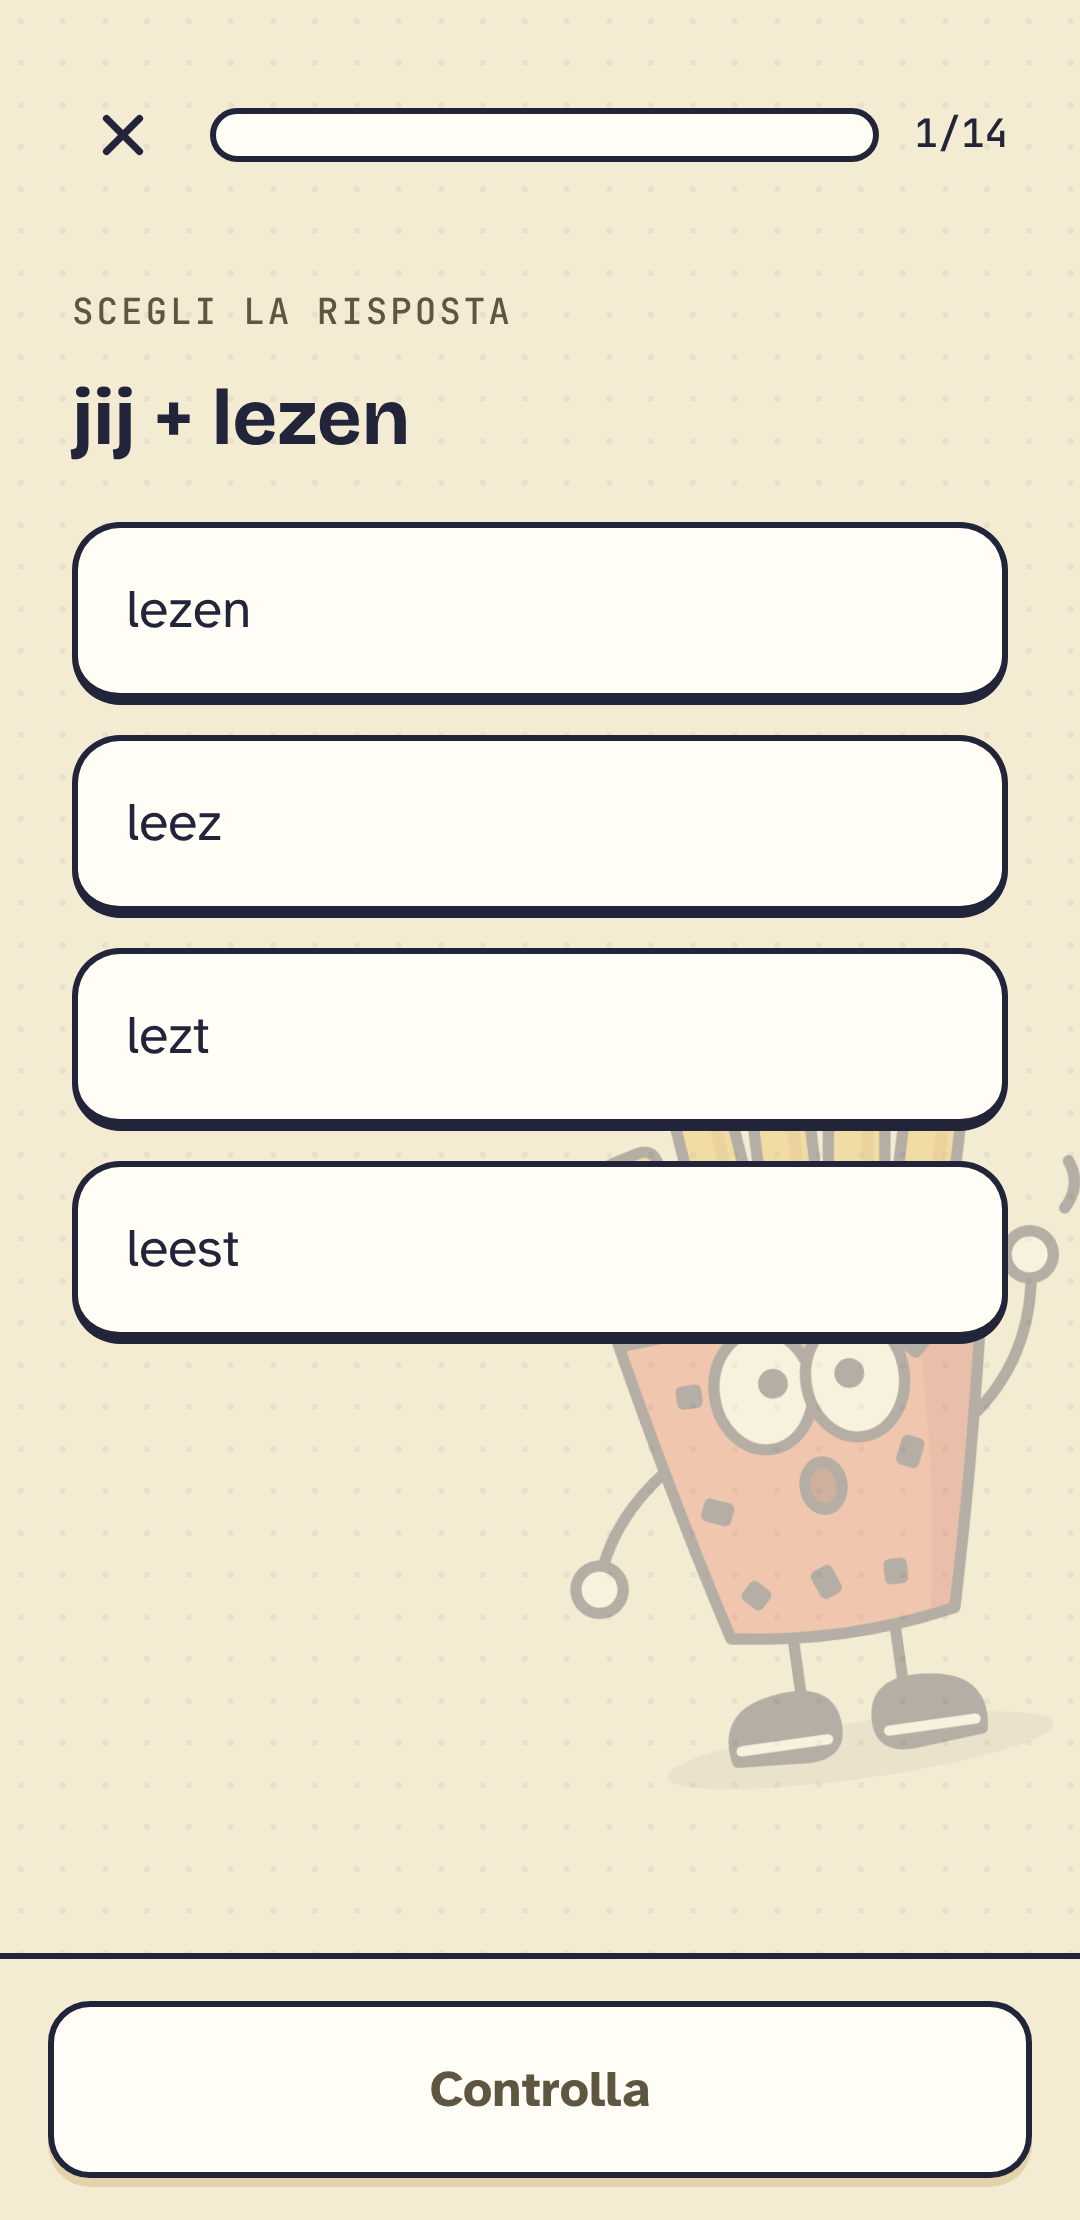
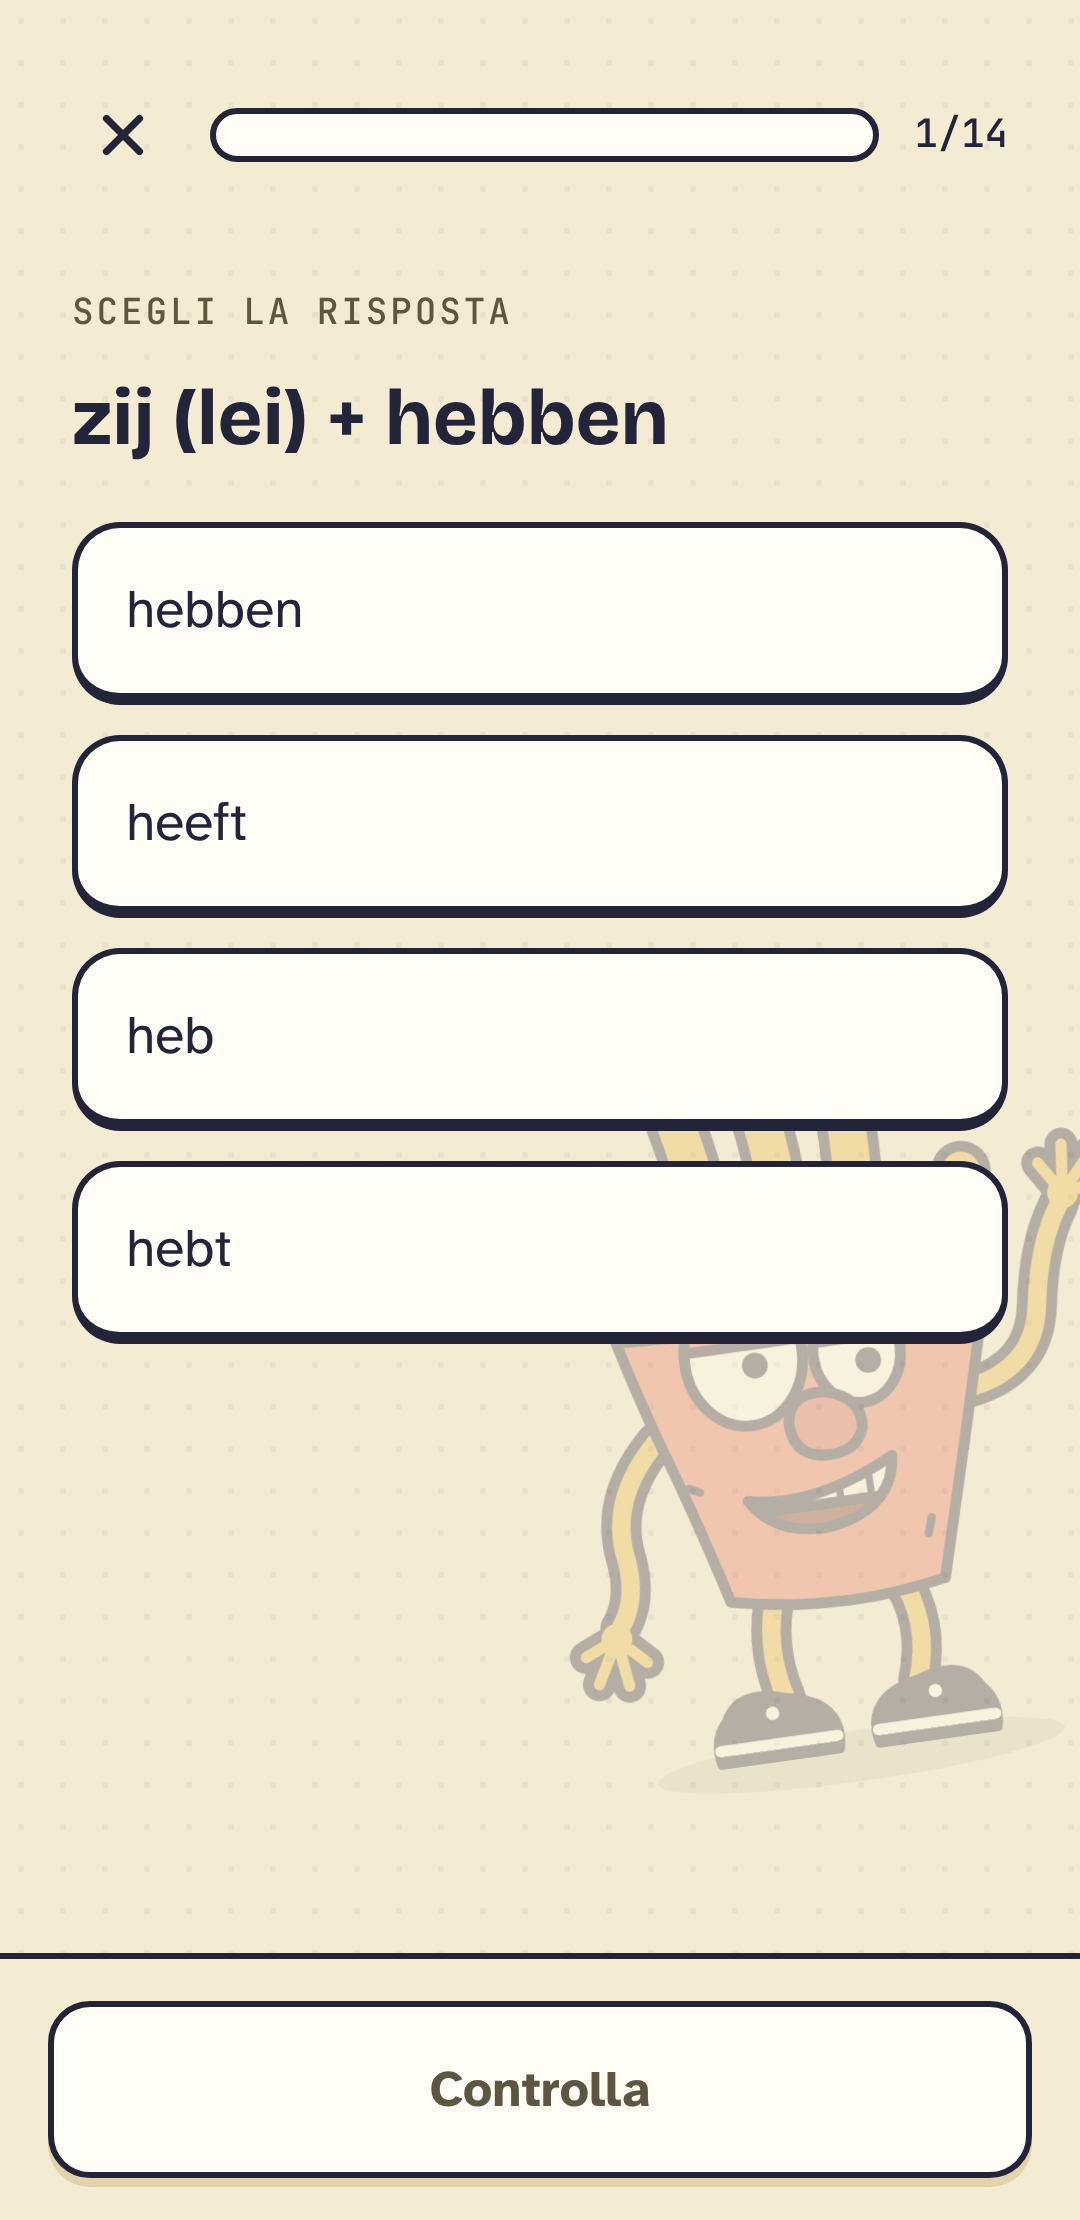
Patatino ridisegnato da cartone strambo anni '90
Occhi diversi con palpebre pesanti, naso a patata, denti, patatine a ciuffo,
braccia e gambe a spaghetto con le dita, colori piatti senza ombre.
Icone e screenshot rigenerati, service worker patatino-v13.

Claude-Session: https://claude.ai/code/session_01ECBMUquqsHNzCigmgssG95

diff --git a/index.html b/index.html
@@ -3822,73 +3822,84 @@ const ICON = {
 /* ---------- Patatino, la mascotte (disegno originale) ---------- */
 let mid = 0;
 function patatino(mood, size){
-  // stile cartone anni '90: contorno blu notte sottile, colori smorzati, occhioni sporgenti, scarpone e ombra morbida a terra
+  // cartone "strambo" anni '90: linee sottili un po' storte, colori piatti, occhi diversi, denti, braccia a spaghetto con le dita
   const id = "pc" + (++mid);
-  const K = "#22243A", C = "#E8705F", CS = "#CF5A4B", Y = "#EBB83F", YS = "#D49C25", W = "#FFFDF6", SW = 2.2;
+  const K = "#22243A", C = "#E8705F", CN = "#D65B4A", Y = "#EBB83F", W = "#FFFDF6", M = "#7C2A2A", SW = 2.1;
   const ln = `stroke="${K}" stroke-width="${SW}" stroke-linecap="round" stroke-linejoin="round"`;
-  // patatine leggermente storte, come disegnate a mano
-  const fries = [[40,30,40,-14],[53,20,46,-6],[66,15,50,1],[79,20,44,8],[91,30,36,15]].map(([x,y,h,r]) =>
-    `<g transform="rotate(${r} ${x+5.5} ${y+h/2})"><path d="M${x} ${y+3} Q${x} ${y} ${x+3} ${y} H${x+8} Q${x+11} ${y} ${x+11} ${y+3} V${y+h} H${x} Z" fill="${Y}" ${ln}/><path d="M${x+7.6} ${y+4} V${y+h-2}" stroke="${YS}" stroke-width="2.4" stroke-linecap="round"/></g>`).join("");
-  // braccine sottili con manine bianche
-  const hand = (x, y) => `<circle cx="${x}" cy="${y}" r="4.6" fill="${W}" ${ln}/>`;
-  const A = {
-    wave:  [["M40 92 Q28 100 24 112", 24, 113], ["M100 90 Q114 80 116 62", 116, 60]],
-    happy: [["M40 92 Q28 100 26 114", 26, 115], ["M100 92 Q112 100 114 114", 114, 115]],
-    cheer: [["M40 90 Q26 80 22 62", 22, 60], ["M100 90 Q114 80 118 62", 118, 60]],
-    sad:   [["M41 94 Q36 108 38 122", 38, 124], ["M99 94 Q104 108 102 122", 102, 124]]
+  // tubi (patatine, braccia, gambe, dita): tratto blu notte largo sotto, colore sopra
+  const tube = (paths, w, col) => paths.map(d => `<path d="${d}" fill="none" stroke="${K}" stroke-width="${w + SW*2}" stroke-linecap="round" stroke-linejoin="round"/>`).join("") +
+    paths.map(d => `<path d="${d}" fill="none" stroke="${col}" stroke-width="${w}" stroke-linecap="round" stroke-linejoin="round"/>`).join("");
+  // mano: palmo + quattro dita a ventaglio nella direzione a (gradi)
+  const fingers = (x, y, a) => [-60, -22, 14, 52].map((o, i) => {
+    const r = (a + o) * Math.PI / 180, l = [7.5, 9.5, 9.5, 7][i];
+    return `M${x} ${y} L${(x + Math.cos(r)*l).toFixed(1)} ${(y + Math.sin(r)*l).toFixed(1)}`;
+  });
+  const ARMS = {
+    wave:  [["M39 86 Q28 96 30 108 Q31 116 27 121", 26, 123, 105], ["M101 84 Q114 82 116 70 Q118 58 123 51", 124, 49, -62]],
+    happy: [["M39 88 Q26 94 24 108", 23, 111, 100], ["M101 88 Q114 94 116 108", 117, 111, 80]],
+    cheer: [["M39 84 Q26 78 24 64 Q22 54 17 48", 16, 46, -118], ["M101 84 Q114 78 116 64 Q118 54 123 48", 124, 46, -62]],
+    sad:   [["M40 90 Q35 106 38 120 Q38 127 36 131", 36, 133, 95], ["M100 90 Q105 106 102 120 Q102 127 104 131", 104, 133, 85]]
   }[mood] || [];
-  const arms = A.map(([d, x, y]) => `<path d="${d}" fill="none" ${ln}/>` + hand(x, y)).join("");
-  // occhioni sporgenti che si toccano, pupille piccole
-  const eye = (x, y, px, py, lid) => {
-    const cid = id + "e" + x;
-    return `<clipPath id="${cid}"><ellipse cx="${x}" cy="${y}" rx="9.6" ry="11.6"/></clipPath>
-      <ellipse cx="${x}" cy="${y}" rx="9.6" ry="11.6" fill="${W}"/>
-      <circle cx="${x+px}" cy="${y+py}" r="2.9" fill="${K}"/>
-      ${lid ? `<g clip-path="url(#${cid})"><rect x="${x-10}" y="${y-12}" width="20" height="${22*lid}" fill="${C}"/><path d="M${x-10} ${y-11+22*lid} H${x+10}" ${ln}/></g>` : ""}
-      <ellipse cx="${x}" cy="${y}" rx="9.6" ry="11.6" fill="none" ${ln}/>`;
+  const arms = tube(ARMS.flatMap(([, x, y, a]) => fingers(x, y, a)), 2.2, Y) + tube(ARMS.map(([d]) => d), 3.6, Y) +
+    ARMS.map(([, x, y]) => `<circle cx="${x}" cy="${y}" r="3" fill="${Y}"/>`).join("");
+  const legs = tube(mood === "sad" ? ["M58 118 Q60 128 63 139", "M82 118 Q80 128 77 139"] : ["M58 118 Q54 128 57 139", "M82 118 Q87 128 83 139"], 3.6, Y);
+  const shoe = (x, s) => `<path d="M${x} 139 Q${x + s*9} 136 ${x + s*12} 142 Q${x + s*15} 145 ${x + s*14} 150 L${x - s*9} 150 Q${x - s*11} 141 ${x} 139 Z" fill="${K}" ${ln}/>
+    <path d="M${x - s*9} 147.5 H${x + s*14}" stroke="${W}" stroke-width="2.2" stroke-linecap="round"/><circle cx="${x + s*3}" cy="141.5" r="1.3" fill="${W}"/>`;
+  // patatine come ciuffi di capelli, una con la punta piegata
+  const droop = mood === "sad" ? 6 : 0;
+  const fries = tube([`M44 64 Q40 48 ${34 - droop} ${36 + droop}`, `M56 62 Q55 42 ${51 - droop/2} 24`, "M68 60 Q71 38 66 18 Q65 11 72 9",
+    `M80 62 Q85 44 ${84 + droop/2} 27`, `M92 64 Q99 52 ${105 + droop} ${42 + droop}`], 7.4, Y);
+  // occhi diversi tra loro: palpebra (lid) da 0 a 1, pupilla spostata di (px, py)
+  const eye = (k, x, y, rx, ry, px, py, lid) => {
+    const cid = id + k;
+    return `<clipPath id="${cid}"><ellipse cx="${x}" cy="${y}" rx="${rx}" ry="${ry}"/></clipPath>
+      <ellipse cx="${x}" cy="${y}" rx="${rx}" ry="${ry}" fill="${W}"/>
+      <circle cx="${x + px}" cy="${y + py}" r="2.5" fill="${K}"/>
+      ${lid ? `<g clip-path="url(#${cid})"><rect x="${x - rx - 1}" y="${y - ry - 1}" width="${rx*2 + 2}" height="${ry*2*lid + 1}" fill="${C}"/><path d="M${x - rx - 1} ${y - ry + ry*2*lid} H${x + rx + 1}" ${ln}/></g>` : ""}
+      <ellipse cx="${x}" cy="${y}" rx="${rx}" ry="${ry}" fill="none" ${ln}/>`;
   };
-  let face;
-  if(mood === "cheer"){
-    face = `<path d="M53 80 Q61 70 69 80 M71 80 Q79 70 87 80" fill="none" ${ln}/>
-      <path d="M61 92 Q70 108 79 92 Z" fill="#7C2A2A" ${ln}/><path d="M65 99 Q70 96 75 99" stroke="${C}" stroke-width="2.4" fill="none" stroke-linecap="round"/>`;
-  } else if(mood === "happy"){
-    face = eye(61, 79, 1.5, 1, 0) + eye(79, 79, -1, 1, 0) + `<path d="M63 97 Q70 104 77 97" fill="none" ${ln}/>`;
-  } else if(mood === "sad"){
-    face = eye(61, 80, 0, 4, .38) + eye(79, 80, 0, 4, .38) +
-      `<path d="M52 66 L60 70 M88 66 L80 70" ${ln}/><path d="M64 101 Q70 96 76 101" fill="none" ${ln}/>
-      <path d="M90 88 Q94 95 91 98 Q86 98 87 93 Z" fill="#BFE0F0" ${ln}/>`;
-  } else {
-    // stupito-simpatico: boccuccia aperta come nel saluto
-    face = eye(61, 79, 2, -1, 0) + eye(79, 79, -1, -1, 0) +
-      `<path d="M56 64 Q61 61 66 64 M74 64 Q79 61 84 64" fill="none" ${ln}/><ellipse cx="70" cy="99" rx="3.6" ry="4.6" fill="#7C2A2A" ${ln}/>`;
-  }
+  const E = {
+    wave:  [[2, 2, .42], [2, 2, .36], "M73 61 Q80 55 88 60"],
+    happy: [[2, 1, 0], [-1, 1, 0], "M47 58 Q56 53 64 57 M73 60 Q80 56 87 60"],
+    cheer: [[0, -6, 0], [0, -4.5, 0], "M46 55 Q56 49 65 54 M72 57 Q80 51 88 56"],
+    sad:   [[0, 5, .5], [0, 4, .5], "M47 61 Q55 57 64 55 M74 58 Q82 58 88 63"]
+  }[mood] || [[0, 0, 0], [0, 0, 0], ""];
+  const eyes = eye("a", 58, 72, 11.5, 13.5, ...E[0]) + eye("b", 80, 74, 8.5, 10, ...E[1]) + `<path d="${E[2]}" fill="none" ${ln}/>`;
+  const nose = `<path d="M65 86 Q66 80 73 81 Q80 83 79 89 Q77 94 70 93 Q65 92 65 86 Z" fill="${CN}" ${ln}/>`;
+  // bocca: forma riempita scura, fila di denti in alto, lingua per l'esultanza
+  const mouth = (d, teeth, tongue) => `<clipPath id="${id}m"><path d="${d}"/></clipPath><path d="${d}" fill="${M}"/>
+    <g clip-path="url(#${id}m)"><rect x="40" y="80" width="60" height="${teeth}" fill="${W}"/><path d="M40 ${80 + teeth} H100" ${ln}/>
+    ${[61, 67, 73, 79].map(x => `<path d="M${x} 80 V${80 + teeth}" stroke="${K}" stroke-width="1.4"/>`).join("")}
+    ${tongue ? `<ellipse cx="70" cy="118" rx="9" ry="6" fill="#F29A8E" ${ln}/>` : ""}</g><path d="${d}" fill="none" ${ln}/>`;
+  const mouths = {
+    wave:  mouth("M55 100 Q68 103 84 95 Q83 105 71 107 Q60 108 55 100 Z", 22.5, false),
+    happy: mouth("M52 98 Q68 103 88 93 Q87 109 71 112 Q56 112 52 98 Z", 21.5, false),
+    cheer: mouth("M55 98 Q70 101 85 95 Q86 115 71 119 Q56 117 55 98 Z", 21, true),
+    sad:   `<path d="M66 102.5 h4 v4.6 h-4 Z M70 102.5 h4 v4.2 h-4 Z" fill="${W}" ${ln}/><path d="M55 106 Q61 100 67 103 Q73 99 85 104" fill="none" ${ln}/>`
+  };
   const spark = (x, y, s) => `<path d="M${x} ${y-s} Q${x} ${y} ${x+s} ${y} Q${x} ${y} ${x} ${y+s} Q${x} ${y} ${x-s} ${y} Q${x} ${y} ${x} ${y-s} Z" fill="${Y}" stroke="${K}" stroke-width="1.6" stroke-linejoin="round"/>`;
-  const extras = mood === "cheer" ? spark(14, 44, 6) + spark(128, 40, 6) + spark(26, 24, 3.5) :
-                 mood === "wave" ? `<path d="M124 52 q4 -4 2 -9 M130 60 q5 -2 5 -7" fill="none" ${ln}/>` :
-                 mood === "happy" ? spark(124, 46, 4.5) : "";
-  // cono a camicia hawaiana: corallo con quadratini blu notte, fascia col Belgio in tinte smorzate
-  const CONE = "M33 60 Q70 56 107 60 Q100 96 92 126 Q70 130 48 126 Q40 96 33 60 Z";
-  const dots = [[44,76],[47,98],[54,115],[69,114],[84,115],[91,93],[95,74]].map(([x,y],i) =>
-    `<rect x="${x}" y="${y}" width="${i%2?6:5}" height="4.6" rx="1.2" fill="${K}" transform="rotate(${i*23} ${x} ${y})"/>`).join("");
+  const extras = mood === "cheer" ? spark(10, 30, 6) + spark(132, 26, 6) + spark(24, 14, 3.5) + spark(118, 10, 3.5) :
+                 mood === "wave" ? `<path d="M128 42 q5 -4 3 -10 M134 52 q6 -2 6 -8" fill="none" ${ln}/>` :
+                 mood === "happy" ? spark(124, 70, 4.5) :
+                 mood === "sad" ? `<path d="M92 84 Q97 92 93 96 Q87 96 89 90 Z" fill="#BFE0F0" ${ln}/>` : "";
+  // cono un po' storto, colore piatto, fascia col Belgio in tinte smorzate
+  const CONE = "M32 58 Q52 53 72 56 Q92 53 108 59 Q103 78 99 92 Q95 106 91 120 Q70 124 49 119 Q44 100 40 88 Q35 72 32 58 Z";
   return `<svg class="patatino" viewBox="0 0 140 160" width="${size}" height="${Math.round(size*160/140)}" role="img" aria-label="Patatino, la mascotte">
     <defs><clipPath id="${id}"><path d="${CONE}"/></clipPath></defs>
-    <ellipse class="pt-sh" cx="70" cy="151" rx="38" ry="5.5" fill="rgba(34,36,58,.14)"/>
+    <ellipse class="pt-sh" cx="70" cy="152" rx="40" ry="5" fill="rgba(34,36,58,.14)"/>
     ${extras}
-    <path d="M60 126 V140 M80 126 V140" ${ln}/>
-    <path d="M46 150 Q44 140 56 139 Q66 138 66 146 Q66 151 60 151 Z" fill="${K}" ${ln}/><path d="M47 148 H64" stroke="${W}" stroke-width="2" stroke-linecap="round"/>
-    <path d="M94 150 Q96 140 84 139 Q74 138 74 146 Q74 151 80 151 Z" fill="${K}" ${ln}/><path d="M93 148 H76" stroke="${W}" stroke-width="2" stroke-linecap="round"/>
+    ${legs}${shoe(57, -1)}${shoe(83, 1)}
     ${arms}
     ${fries}
-    <path d="M58 52 Q62 43 70 48 Q78 43 82 52 Q78 58 70 57 Q62 58 58 52 Z" fill="${W}" ${ln}/>
+    <path d="M57 53 Q60 44 68 48 Q74 41 81 47 Q86 52 80 56 Q70 59 60 57 Q55 56 57 53 Z" fill="${W}" ${ln}/>
     <path d="${CONE}" fill="${C}"/>
     <g clip-path="url(#${id})">
-      <path d="M92 50 Q102 52 112 58 L98 132 H86 Q94 96 92 50 Z" fill="${CS}"/>
-      ${dots}
-      <rect x="20" y="58" width="38" height="9" fill="${K}"/><rect x="58" y="58" width="25" height="9" fill="${Y}"/><rect x="83" y="58" width="40" height="9" fill="#C4473A"/>
-      <path d="M30 67 Q70 64 112 67" fill="none" ${ln}/>
+      <rect x="20" y="50" width="38" height="16" fill="${K}"/><rect x="58" y="50" width="25" height="16" fill="${Y}"/><rect x="83" y="50" width="40" height="16" fill="#C4473A"/>
+      <path d="M26 65 Q50 68 70 65 Q92 62 114 66" fill="none" ${ln}/>
+      <path d="M46 112 l2 2 M90 108 l-1 3 M44 96 l2 1" stroke="${K}" stroke-width="1.6" stroke-linecap="round"/>
     </g>
     <path d="${CONE}" fill="none" ${ln}/>
-    ${face}
+    ${eyes}${nose}${mouths[mood] || mouths.happy}
   </svg>`;
 }
 const CLOUD = "";   // niente nuvola: Patatino sta in piedi sulla sua ombra

diff --git a/sw.js b/sw.js
@@ -1,5 +1,5 @@
 // Patatino: funzionamento offline. Cambia VERSION a ogni aggiornamento dell'app.
-const VERSION = "patatino-v12";
+const VERSION = "patatino-v13";
 const FILES = ["./", "./index.html", "./manifest.webmanifest", "./icon-192.png", "./icon-512.png", "./icon-180.png", "./icon-32.png", "./icon-maskable-192.png", "./icon-maskable-512.png"];
 self.addEventListener("install", e => { e.waitUntil(caches.open(VERSION).then(c => c.addAll(FILES))); self.skipWaiting(); });
 self.addEventListener("activate", e => {
